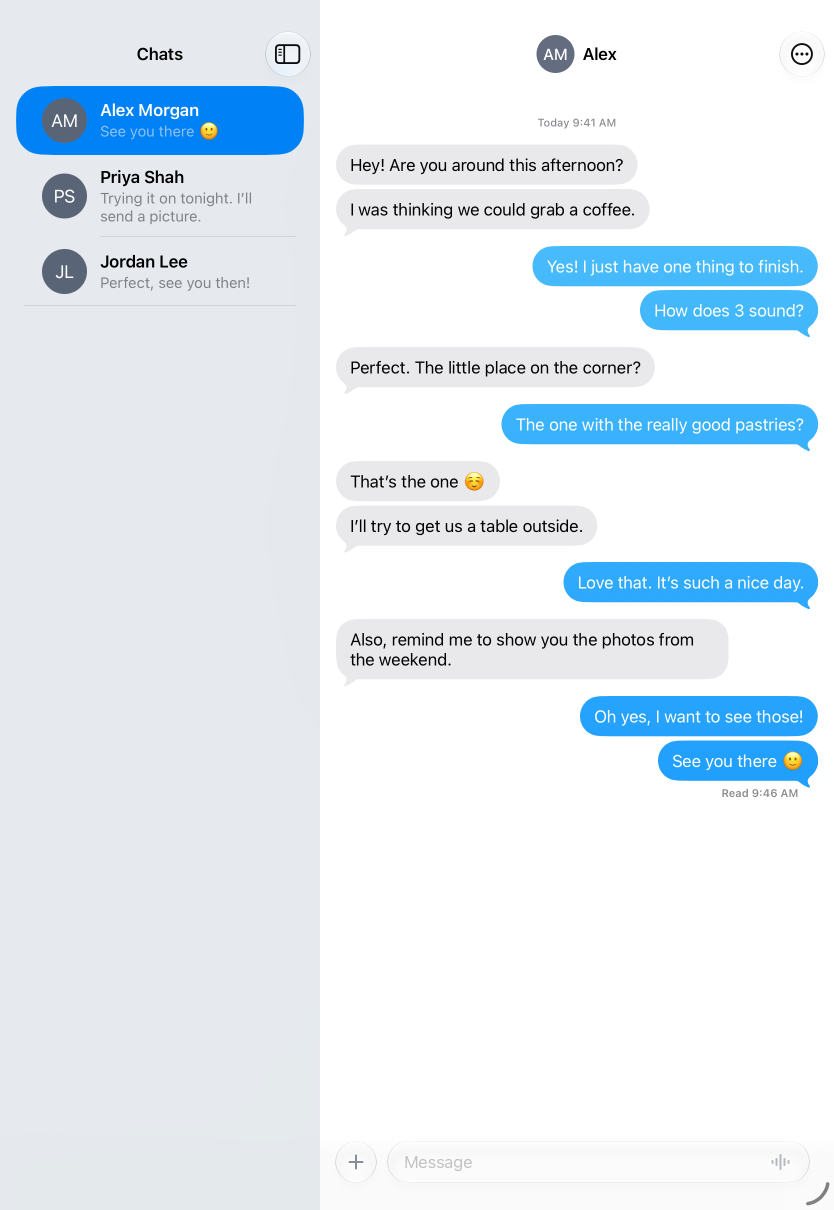
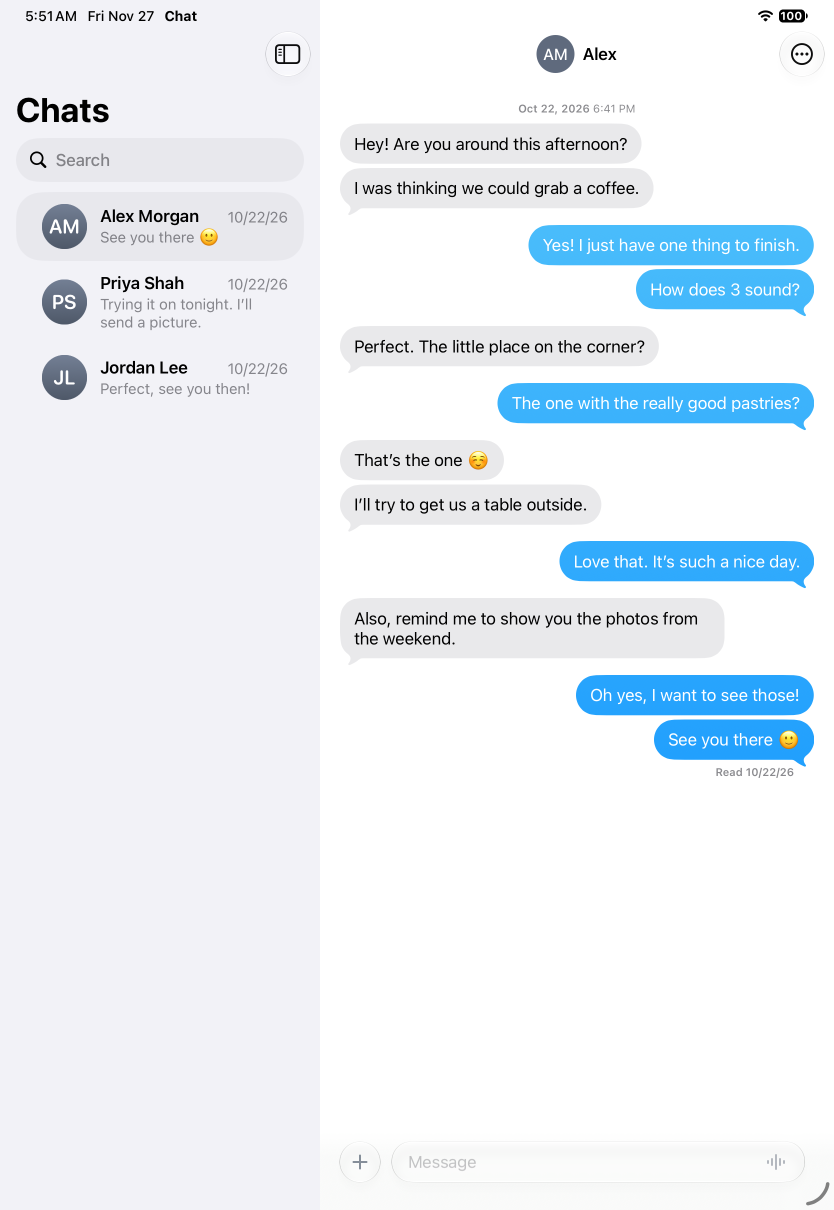
Give the conversation list a large title that slides up as it scrolls
Why
===

The inbox's title was a level-2 heading, which Exact shows as the bar's inline title, so it never moved as the list scrolled. The platform's chat titles its list large, and the title slides up into the bar once there is more to scroll, while the search results keep their sticky section headers in compact width.

How
===

The inbox's `header` heading is `h1 "Chats"`: a level-1 heading is a large title, and the route's list is the bar's scroller with nothing else written, so UIKit collapses it into the bar's inline title as the list scrolls. In compact width the search results' sections still pin their headers; beside a conversation the list takes UIKit's sidebar appearance, whose header pinning is not checked here.

Test Plan
===

In a Chat app made from this branch with 14 more seeded conversations, on the iPhone 18 Pro simulator (iOS 27.0): the list opens under a large "Chats", and scrolling it 400 points shows "Chats" inline in the bar. On the folded iPhone Duo simulator (iOS 27.1) the large title slides away as the list scrolls, and beside a conversation on the unfolded Duo the sidebar shows "Chats" large.

diff --git a/chat/TEMPLATE.md b/chat/TEMPLATE.md
@@ -40,6 +40,8 @@ Keywords: chat, messaging, messenger, conversation, inbox, thread, transcript, m
 
 ## Verified
 
+The inbox's large title, on Exact main `f14da5356b` (newer than the pin; the title's level is the template's own) with a Chat made from this template and 14 more seeded conversations: on the iPhone 18 Pro (iOS 27.0) simulator it opens large and, the list scrolled 400 points, shows inline in the bar; on the closed iPhone Duo (iOS 27.1) simulator it slides away as the list scrolls (the Duo's bar items sit in its side column, which shows no inline title); beside a conversation, on the open Duo and the iPad Pro 11-inch (iOS 27.0) simulator, the sidebar shows it large. In compact width the search results' section headers are a plain list's, which UIKit pins by default (Exact unpins only footers, `GroupedListIOS.swift`'s section provider), whatever the title's level; beside a conversation the list takes UIKit's sidebar appearance, whose headers' pinning is not checked here.
+
 At `2d6df9fcc4`, which `exact.json` pins, Exact's main, an app made from this template with `new.mjs` passes `bun test`, `bun exact.mjs test web`, and `bun exact.mjs test ios` on the iPhone 18 Pro (iOS 27.0) simulator and the closed iPhone Duo (iOS 27.1) simulator; the iPad was not run. On the iPhone 18 Pro and the open Duo, opening the 30,000-message stress conversation from another, pushed or beside the list, showed its rows at their places in the first frame recorded and moving no further; the simulator's recorder writes a frame only when the screen changes, so a frame between two recorded ones is not seen. What follows was measured at `66c670c79e`, the pin before: on the open Duo only the conversation's layout and the person card's width were measured. There the balloons end at the 84-point strip on the right, under which the conversation's ground reaches, and start 20 points from the sidebar, the composer between the same, and a send flies at its full width to where its row rests; the balloons sit 16 points from each side on the iPhone 18 Pro upright, 78 turned sideways (its 62-point side safe area and 16), and 16 on the web. On the web, `bun exact.mjs agent web "tap conversation-alex" "clock settle" "check both"` reads each sent balloon's text on its gradient, which `app.json` accepts, and finds nothing on a received one. On the iPhone 18 Pro, driven with real touches, a long press on a sent balloon lifts it in its outline, its tail included, into Reply, Copy and More…, with no rim around it once lifted; and filmed at the display's rate, a long press on a sent and on a received balloon, then Copy, shows no rectangle in any frame of the press, the lift or the return; and filmed at the display's rate, a second message sent seconds after the first scrolls its row in smoothly and draws the first's tail into its corner as it reaches its row.
 
 At `cd24355239`, Exact's main then, an app made from this template with `new.mjs` passed `bun test`, `bun exact.mjs test web`, and `bun exact.mjs test ios` on the iPhone 18 Pro (iOS 27.0) simulator and the closed iPhone Duo (iOS 27.1) simulator; the iPad was not run. On the open Duo the suite passed 15 of 16: `a phone opens at the list` failed there, since the app opens a conversation beside the list at that width. There, driven with real touches, a conversation opened while closed keeps its row selected in the sidebar after the Duo opens, one chosen after it opens shows beside the list, and a long press on a sent balloon lifts it into Reply, Copy and More….
